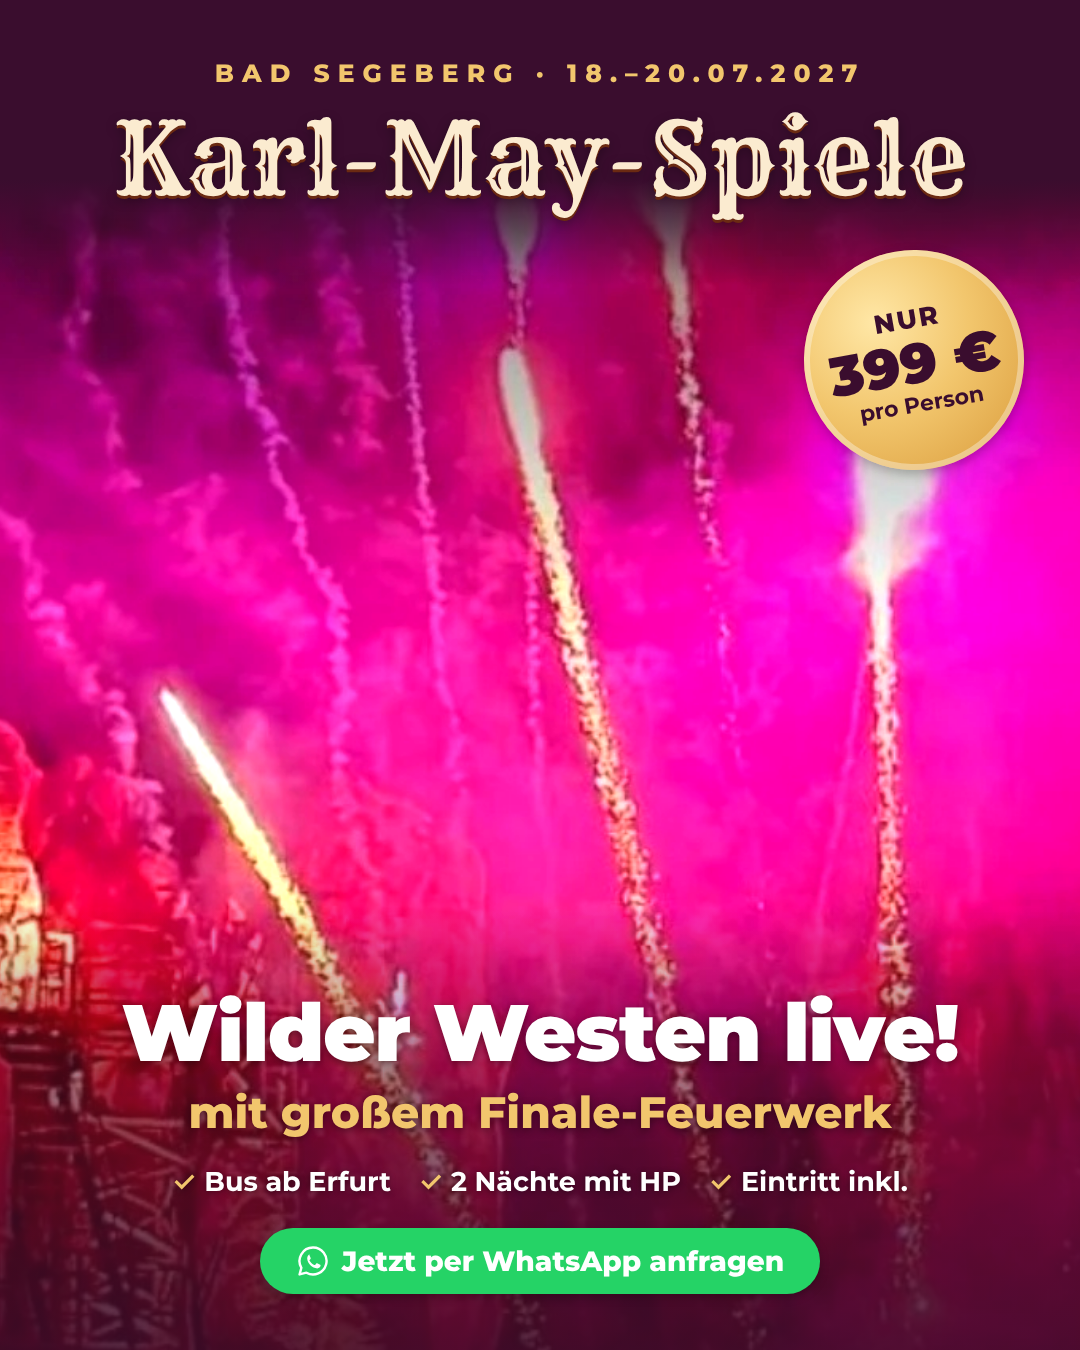
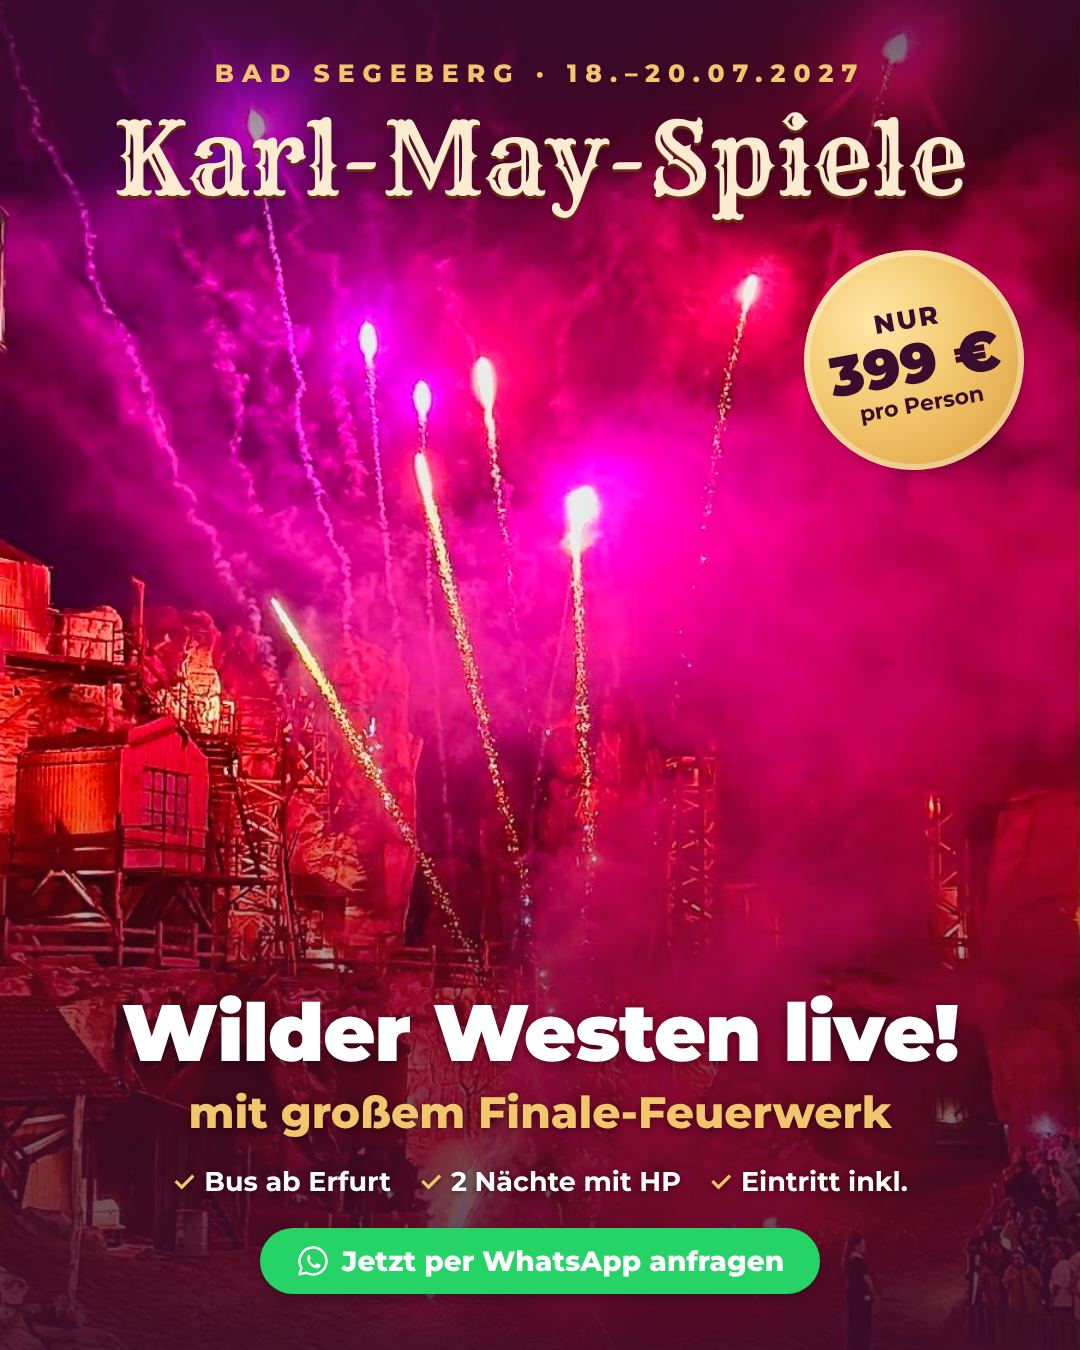
Karl-May-Spiele creative: use original full-res photo as full-bleed background
Claude-Session: https://claude.ai/code/session_01WaKFhgz8ZvCc2eJNCdq1KM

diff --git a/creatives/karl-may-feuerwerk.html b/creatives/karl-may-feuerwerk.html
@@ -4,8 +4,8 @@
 *{margin:0;padding:0;box-sizing:border-box}
 body{width:1080px;height:1350px;font-family:Montserrat,sans-serif;color:#fff;overflow:hidden;background:#3a0d2e}
 .ad{position:relative;width:1080px;height:1350px}
-.bg{position:absolute;left:0;top:180px;width:1080px;height:1170px;object-fit:cover;object-position:30% 50%;filter:brightness(1.2) saturate(1.08)}
-.fade{position:absolute;left:0;top:180px;width:1080px;height:1172px;background:linear-gradient(180deg,#3a0d2e 0%,rgba(58,13,46,0) 9%,rgba(58,13,46,0) 62%,rgba(58,13,46,.5) 78%,rgba(58,13,46,.8) 100%)}
+.bg{position:absolute;left:0;top:0;width:1080px;height:1350px;object-fit:cover;object-position:50% 45%;filter:brightness(1.05) saturate(1.05)}
+.fade{position:absolute;inset:0;background:linear-gradient(180deg,rgba(58,13,46,.75) 0%,rgba(58,13,46,0) 20%,rgba(58,13,46,0) 58%,rgba(58,13,46,.55) 76%,rgba(58,13,46,.85) 100%)}
 .top{position:absolute;top:58px;width:100%;text-align:center}
 .kicker{color:#F2C66D;font-weight:800;font-size:25px;letter-spacing:8px}
 .title{font-family:Rye,serif;font-size:100px;color:#FBEBD0;margin-top:8px;text-shadow:0 3px 0 #6b2a12,0 4px 12px rgba(0,0,0,.35)}
